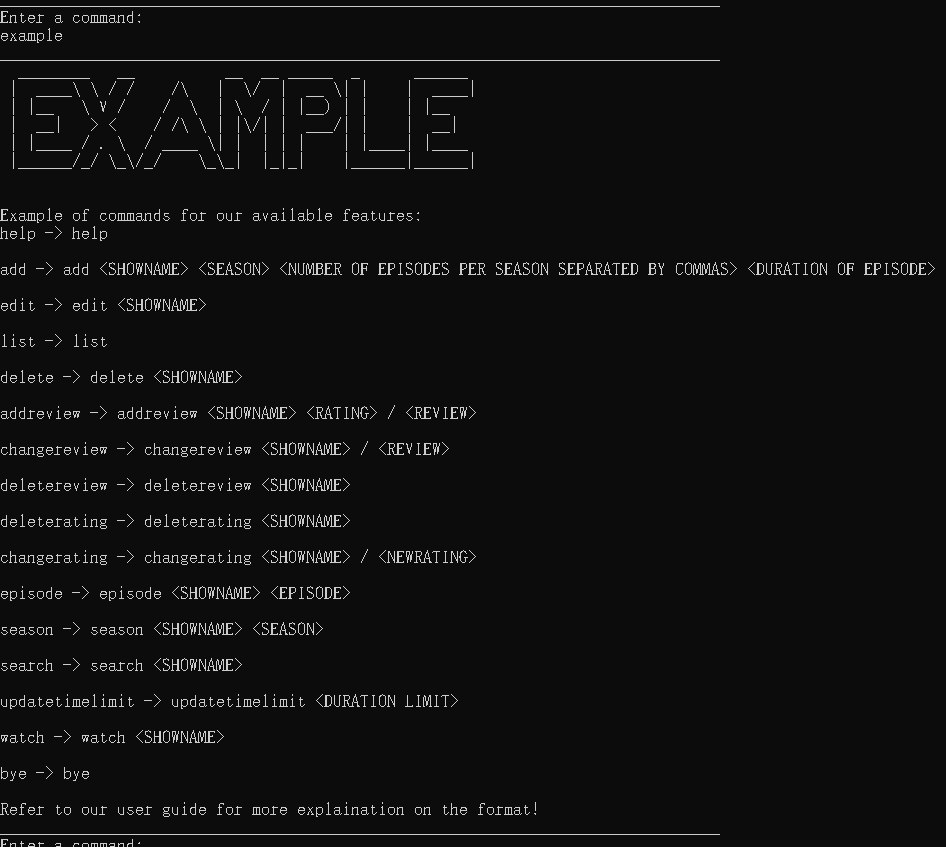
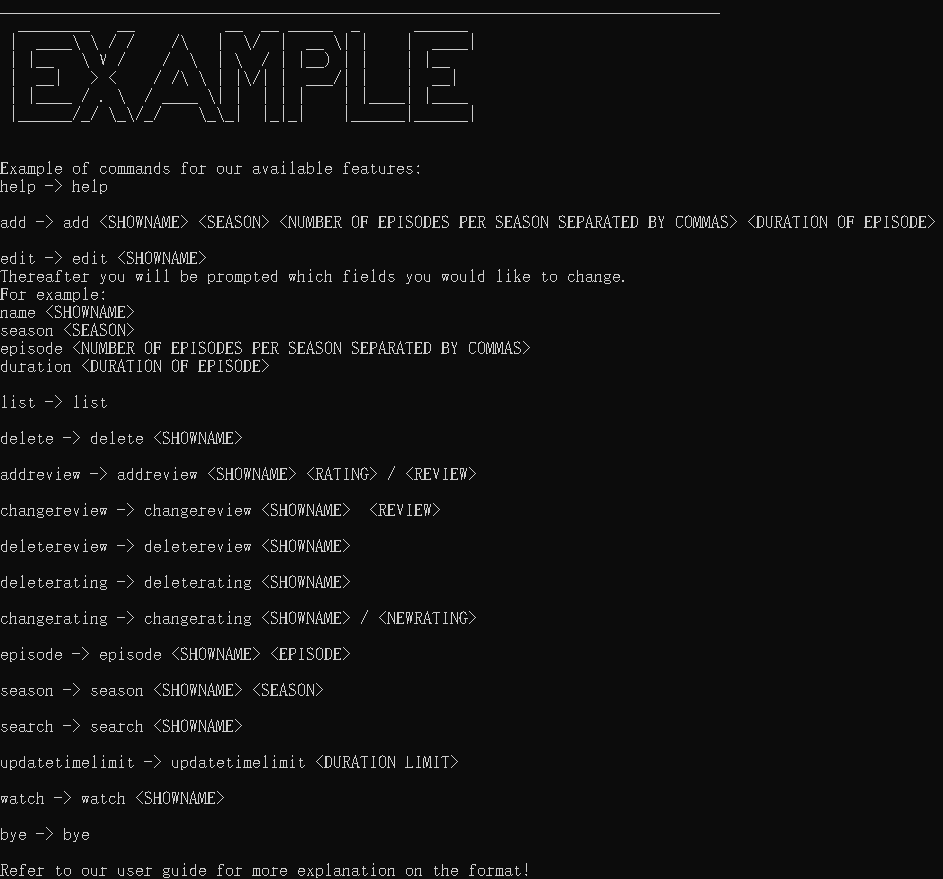
last min changes

diff --git a/src/main/java/seedu/duke/utility/Ui.java b/src/main/java/seedu/duke/utility/Ui.java
@@ -78,39 +78,39 @@ public class Ui {
 
         System.out.println(helpIcon);
         System.out.println("Enter the 'example' command for help on the command format.");
-        System.out.println(("help") + " - Views help\n"
+        System.out.println("help" + " - Views help\n"
                 + " \n"
-                + ("example") + " - Outlines command format\n"
+                + "example" + " - Outlines command format\n"
                 + " \n"
-                + ("add") + " - Adds a show\n"
+                + "add" + " - Adds a show\n"
                 + " \n"
-                + ("edit") + " - Edits your show details\n"
+                + "edit" + " - Edits your show details\n"
                 + " \n"
-                + ("list") + " - Displays all your shows in the watchlist\n"
+                + "list" + " - Displays all your shows in the watchlist\n"
                 + "\n"
-                + ("delete") + " - Deletes your show\n"
+                + "delete" + " - Deletes your show\n"
                 + " \n"
-                + ("addreview") + " - Adds a review to your show\n"
+                + "addreview" + " - Adds a review to your show\n"
                 + "\n"
-                + ("changereview") + " - Changes review of your show\n"
+                + "changereview" + " - Changes review of your show\n"
                 + "\n"
-                + ("deletereview") + " - Deletes review of your show\n"
+                + "deletereview" + " - Deletes review of your show\n"
                 + "\n"
-                + ("deleterating") + " - Deletes rating of your show\n"
+                + "deleterating" + " - Deletes rating of your show\n"
                 + "\n"
-                + ("changerating") + " - Changes rating of your show\n"
+                + "changerating" + " - Changes rating of your show\n"
                 + "\n"
-                + ("episode") + " - Update your current episode progress\n"
+                + "episode" + " - Update your current episode progress\n"
                 + "\n"
-                + ("season") + " - Update your current season progress\n"
+                + "season" + " - Update your current season progress\n"
                 + "\n"
-                + ("search") + " - Look for your show in the watchlist\n"
+                + "search" + " - Look for your show in the watchlist\n"
                 + "\n"
-                + ("updatetimelimit") + " - Update your watch time limit\n"
+                + "updatetimelimit" + " - Update your watch time limit\n"
                 + "\n"
-                + ("watch") + " - Update your watch progress\n"
+                + "watch" + " - Update your watch progress\n"
                 + "\n"
-                + ("bye") + " - Exits the program\n");
+                + "bye" + " - Exits the program\n");
         System.out.println("Refer to our user guide for more help!");
         printLine();
     }
@@ -147,7 +147,7 @@ public class Ui {
                 + " \n"
                 + "addreview" + " -> addreview <SHOWNAME> <RATING> / <REVIEW>\n"
                 + "\n"
-                + "changereview" + " -> changereview <SHOWNAME> / <REVIEW>\n"
+                + "changereview" + " -> changereview <SHOWNAME>  <REVIEW>\n"
                 + "\n"
                 + "deletereview" + " -> deletereview <SHOWNAME>\n"
                 + "\n"

diff --git a/docs/UserGuide.md b/docs/UserGuide.md
@@ -398,7 +398,7 @@ The `deleterating` command deletes the rating for an existing show in the watchl
 The `changerating` command changes the rating for an existing show which already has a rating in the watchlist.
 
  Format:
-  `changerating <SHOWNAME> / <NEWRATING>`
+  `changerating <SHOWNAME> <NEWRATING>`
   
   > **[NOTE]**
   >
